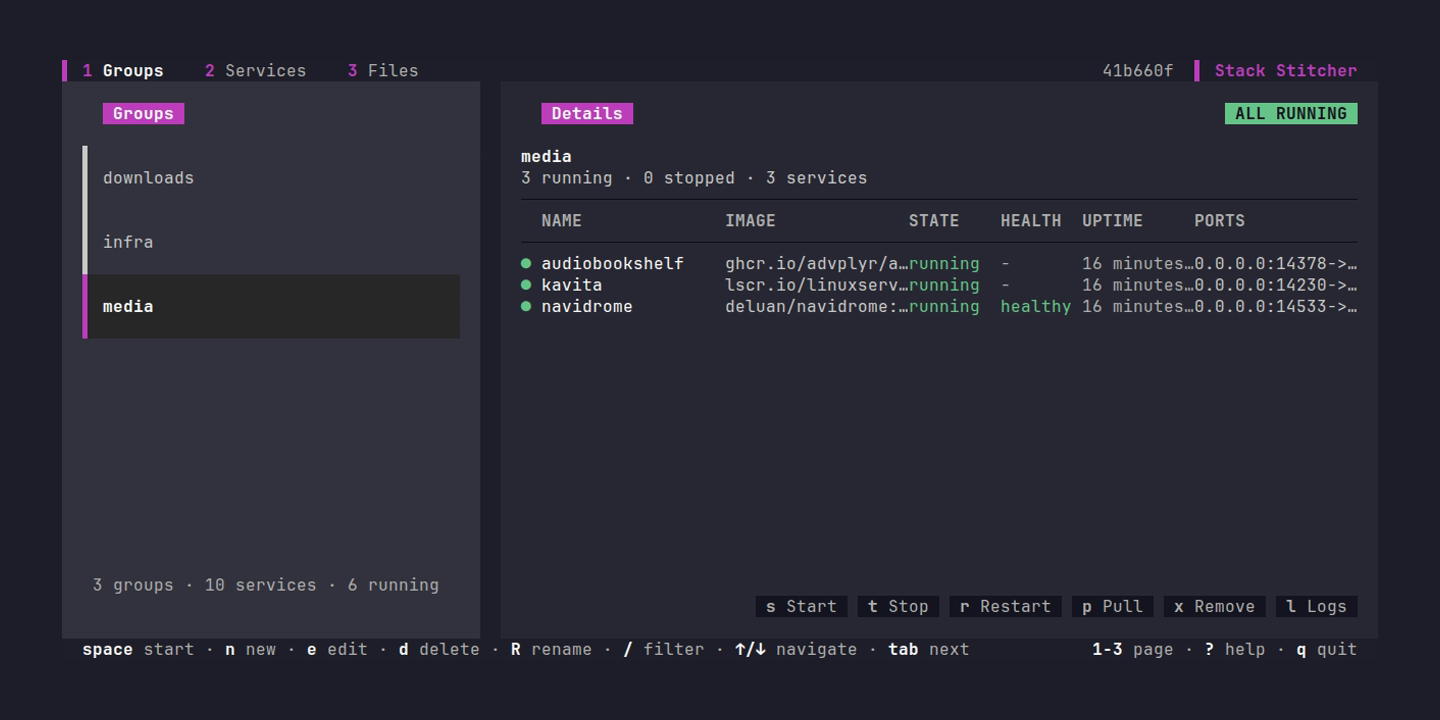
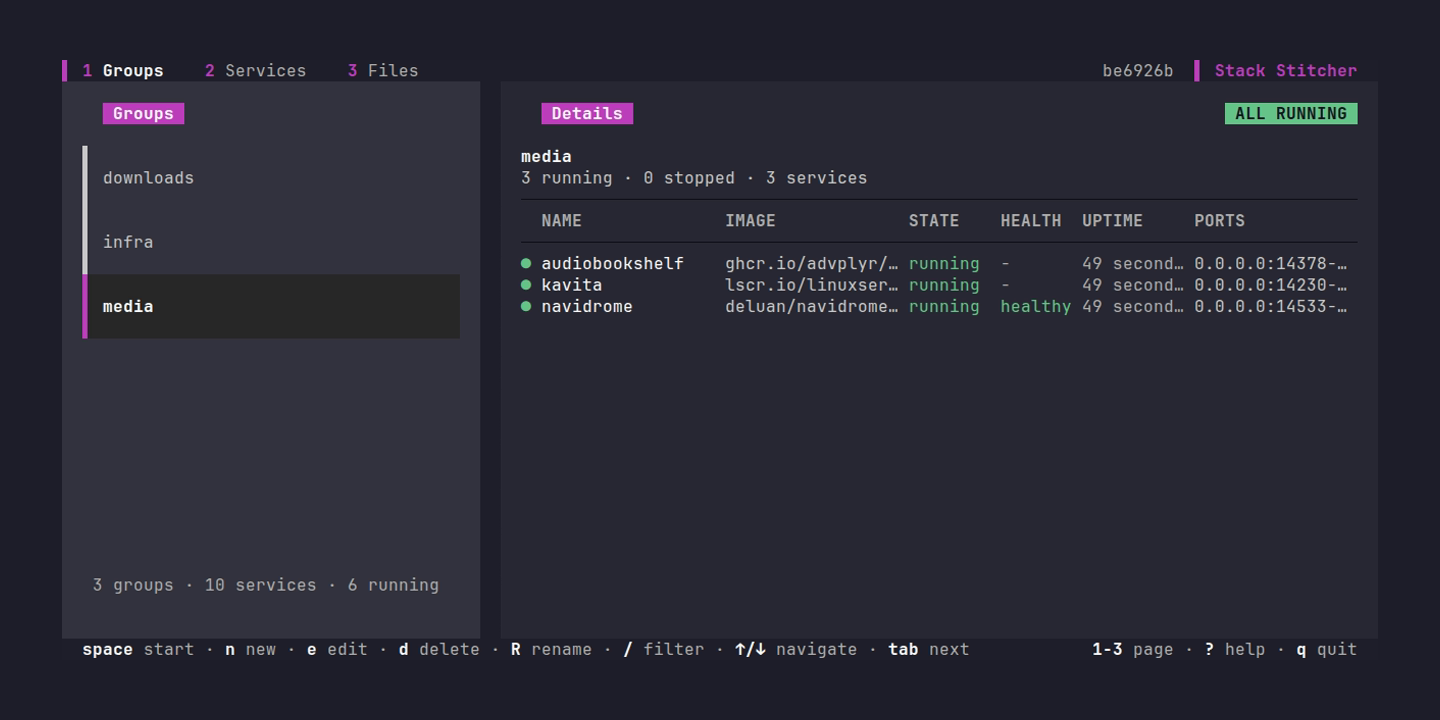
Re-record the README assets
The screenshots and demo.gif showed a UI that no longer exists: the
details panels' action chip row across the bottom of every panel, and a
keybinding bar wrapping onto a second line. Both were fixed this session,
which reopened the "screenshot-accurate README" pre-flight item in
docs/plans/launch-and-outreach.md.

Recorded against the demo/fixtures stack (media + infra profiles for the
screenshots, downloads started from inside the app for the demo) at
45a00a4, through the existing tapes. demo.gif went through the documented
three-pass shrink and landed at 2.3MB, in line with the 2.4MB the tape
predicts.

demo.tape's note on why it records at 1200px and scales to 900 was
rewritten: it justified the size by the bar wrapping below ~130 columns,
which no longer happens. The size is still right, for a different reason
now stated - 1200px is ~117 columns, short of the ~135 a focused details
panel needs for a complete footer, so the bar sheds two hints in those
frames. Recording at 1440 would show the full bar and cost legibility on
the one file a visitor judges the app by. Legibility won.

README's known-issues entry for the wrap is replaced rather than deleted:
a narrow terminal still shows less, it just no longer shows it worse, and
what it gives up and what it never gives up is the honest version of that
caveat.

diff --git a/README.md b/README.md
@@ -175,9 +175,12 @@ own in [docs/plans/](docs/plans/):
   lines through as marker comments was built and then removed, because a blank
   line inside a block scalar (`command: |`) is part of the string, and silently
   rewriting your data is a worse failure than losing your spacing.
-- **The keybinding bar wraps** on terminals under roughly 130 columns, eating a
-  row or two of the panel below it. Cosmetic, visible in the demo above, and
-  first in the queue of small fixes.
+- **A narrow terminal shows less, not worse.** Under roughly 135 columns the
+  keybinding bar starts dropping hints, and a narrow details panel drops
+  columns from the member table — widest and least important first, and never
+  `q quit`, `? help` or the service's own name. Everything dropped is still
+  pressable and still in the `?` overlay. Below about 20 columns the app clips
+  rather than reflows.
 
 Issues and ideas are genuinely welcome, and at this stage they still change the
 direction.
